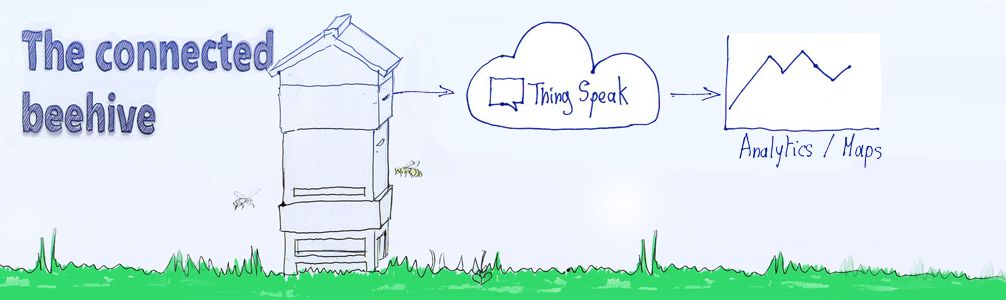
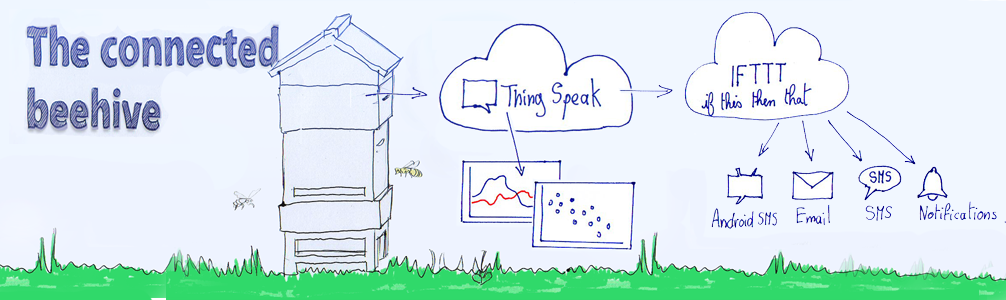
update web & readme.md

diff --git a/html/menu.php b/html/menu.php
@@ -31,9 +31,10 @@
 					Data visualization
 				  </a>
 				  <div class="dropdown-menu">
-					<a class="dropdown-item" href="/thingSpeakView.php?fieldP=1&fieldS=2">Poids/Température</a>
-					<a class="dropdown-item" href="/thingSpeakView.php?fieldP=3&fieldS=4">Pression/Humidité</a>
-					<a class="dropdown-item" href="/thingSpeakView.php?fieldP=5">Eclairement</a>
+					<a class="dropdown-item" href="/thingSpeakView.php?fieldP=1&fieldS=2">Weight/Temperature</a>
+					<a class="dropdown-item" href="/thingSpeakView.php?fieldP=3&fieldS=4">Pressure/humidity</a>
+					<a class="dropdown-item" href="/thingSpeakView.php?fieldP=5">Illuminance</a>
+					<a class="dropdown-item" href="/thingSpeakView.php?channel=556419&fieldP=3">Dew point</a>
 				  </div>
 			</li>
 			
@@ -43,9 +44,9 @@
 					 Data analysis
 				  </a>
 				  <div class="dropdown-menu">
-					<a class="dropdown-item" href="/dispersionPoidsTemperature.php">Nuage de points Poids/Température</a>
-					<a class="dropdown-item" href="/dispersionTempHumidite.php">Nuage de points Température/Humidité</a>
-					<a class="dropdown-item" href="/dewPoint.php">Dew point</a>
+					<a class="dropdown-item" href="/dispersionPoidsTemperature.php">Scatter plot Weight/Temperature</a>
+					<a class="dropdown-item" href="/dispersionTempHumidite.php">Scatter plot Temperature/Humidity</a>
+					<!--<a class="dropdown-item" href="/dewPoint.php">Dew point</a>-->
 				  </div>
 			</li>
 			
@@ -69,11 +70,12 @@
 						echo $_SESSION['login']; 
 					echo '</a>';
 					echo '<div class="dropdown-menu">';
-					echo '<a class="dropdown-item" href="/administration/ruche.php">Ruche</a>';
-					echo '<a class="dropdown-item" href="/administration/balance.php">Balance</a>';
-					echo '<a class="dropdown-item" href="/administration/baseDeDonnees.php">Bases de données</a>';
+					echo '<a class="dropdown-item" href="/administration/ruche.php">Beehive</a>';
+					echo '<a class="dropdown-item" href="/administration/balance.php">Scale</a>';
+					echo '<a class="dropdown-item" href="/administration/baseDeDonnees.php">Database</a>';
 					echo '<a class="dropdown-item" href="/administration/thingSpeakConf.php">Thing Speak</a>';
 					echo '<a class="dropdown-item" href="https://ifttt.com/my_applets">IFTTT</a>';
+					echo '<a class="dropdown-item" href="/administration/infoSystem.php">System info</a>';
 					echo '<a class="dropdown-item" href="/administration/signout.php" id="nav-sign-in">Sign Out</a>';
 					echo '</div>';
 					echo '</li>';

diff --git a/html/activity.php b/html/activity.php
@@ -25,24 +25,36 @@
 	<?php require_once 'menu.php'; ?>
 	<div class="container" style="padding-top: 65px;">
 		<div class="row">
-			<div class="col-md-9 col-sm-12 col-xs-12">
-				<div class="popin">
-				<?php
-					$file = '/home/pi/Ruche/activity.log';
-				 
-					$file_contents = array_reverse(file($file));
-					$nb = 1;
-					echo "<p>";
-					foreach($file_contents as $line){
-				 
-					  echo $line . "<br />";
-					  $nb++;
-					  if ($nb > 48) {
-						 break; 
-					  }
-					}
-					echo "</p>";
-				?>
+			<div class="col-md-12 col-sm-12 col-xs-12">
+				<div class="popin table-responsive">
+				<table class="table table-striped">
+					<thead>
+					  <tr>
+						<th>N°</th>
+						<th>Date Time</th>
+						<th>Process</th>
+					  </tr>
+					</thead>
+					<tbody>
+						<?php
+							$file = '/home/pi/Ruche/activity.log';
+						 
+							$file_contents = array_reverse(file($file));
+							$nb = 1;
+							
+							foreach($file_contents as $line_num => $line){
+								if (preg_match("/\b50[0-5]\b/", $line)) echo '<tr class="table-danger">'; else echo '<tr>';						
+								echo "<td>" .$line_num . "</td><td> " . substr($line, 0, 20) . "</td><td>" . substr($line, 20) . "</td>";
+								$nb++;
+								if ($nb > 48) {
+									break; 
+								}
+								echo "</tr>\n";
+							}
+							
+						?>
+					</tbody>
+				</table>	
 				</div>
 			</div>	
 

diff --git a/html/thingSpeakView.php b/html/thingSpeakView.php
@@ -27,9 +27,9 @@
     
 	// put your ThingSpeak Channel#, Channel Name, and API keys here.
     var channelKeys =[];
-    channelKeys.push({channelNumber:<?php echo $ini['thingSpeak']['channel']; ?>, 
+    channelKeys.push({channelNumber:<?php if (isset($_GET['channel'])) { echo $_GET['channel']; } else {echo $ini['thingSpeak']['channel'];} ?>, 
 	                  name:'Ruche',
-					  key:'<?php echo $ini['thingSpeak']['key']; ?>',
+					  key:'<?php if (isset($_GET['key'])) { echo $_GET['key']; } else { echo $ini['thingSpeak']['key']; }; ?>',
                       fieldList:[<?php if (isset($_GET['fieldP'])) { echo "{field:".$_GET['fieldP'].",axis:'P'}"; } else { echo "{field:1,axis:'P'}"; }; 
 								       if (isset($_GET['fieldS'])) { echo ",{field:".$_GET['fieldS'].",axis:'O'}"; };  
 							    ?>]});
@@ -243,17 +243,17 @@ $(document).ready(function()
 				minute: '%H:%M'
 			},
 			title: {
-				text: 'poids'
+				text: ''
 			}
 		},
 		yAxis: [{
             title: {
-                text: 'Poids'
+                text: 'Main Axis'
             },
             id: 'P'
 		}, {
             title: {
-                text: 'Other'
+                text: 'Other Axis'
             },
             opposite: true,
             id: 'O'

diff --git a/README.md b/README.md
@@ -1,1 +1,81 @@
-# Ruche
+# The connected Beehive
+D’une installation facile et rapide, le système se positionne sous n’importe quelle ruche et délivre en temps réel un suivi précis des grandeurs mesurées, via des vues graphiques sur thing Speak ou sur votre site internet.
+
+En cas de besoin d’intervention, des alertes vous seront transmises par mail, sms, ou notification sur votre smartphone. Ce service est assurée par IFTTT (if this then that).
+
+## Câblage
+Réaliser le câblage suivant sur la carte **snir-hat**
+![schema cablage HX711](/html/images/snirHat.png)
+## Prérequis Installation
+
+Les paquets suivants doivent être installés
+```bash
+ $ sudo apt install apache2
+ $ sudo apt install mysql
+ $ sudo apt install php
+ $ sudo apt install phpmyadmin
+ $ sudo apt install libcurl4-openssl-dev
+ $ sudo apt install libmysqlcppconn-dev
+```
+Configuration de Apache
+```bash
+$ sudo a2enmod cgi
+$ sudo usermod -G video www-data
+$ sudo usermod -a -G i2c www-data
+$ sudo service apache2 restart
+```
+Configuration de mysql :
+
+ - création d'une base **data**
+ - création d'un utilisateur **ruche** avec mdp **toto**
+
+
+```bash
+$ mysql -u root -p
+MariaDB [(none)]> create database data;
+MariaDB [(none)]> GRANT ALL PRIVILEGES ON data.* TO ruche@'%'
+IDENTIFIED BY 'toto';
+MariaDB [(none)]> flush privileges;
+MariaDB [(none)]> exit
+```
+ avec phpmyadmin importer le fichier **ruche.sql**
+## Installation 
+```bash
+$ git clone https://github.com/PhilippeSimier/Ruche.git
+$ make all
+$ make install
+$ make clean
+```
+Configuration **crontab**
+ajouter les tâches planifiées suivantes :
+
+ - Exécution de bddLog toutes les 30 minutes;
+ - Exécution de thingSpeak toutes les 30 minutes;
+ - Exécution de synchronisation toute les 4 heures lorsque minute = 5. 
+
+```bash
+*/30 * * * * /home/pi/Ruche/Capteurs/bddLog >> /home/pi/Ruche/activity.log 2>&1
+*/30 * * * * /home/pi/Ruche/Capteurs/thingSpeak >> /home/pi/Ruche/activity.log 2>&1
+5 */4 * * * /home/pi/Ruche/Capteurs/synchronisation >> /home/pi/Ruche/activity.log 2>&1
+
+```
+
+
+
+## Changelog
+
+ **04/08/2018 :** Ajout du README . 
+ 
+> **Notes :**
+
+
+> - Licence : **licence publique générale** ![enter image description here](https://img.shields.io/badge/licence-GPL-green.svg)
+> - Auteur **Philippe SIMIER Lycée Touchard Le Mans**
+>  ![enter image description here](https://img.shields.io/badge/built-passing-green.svg)
+<!-- TOOLBOX 
+
+Génération des badges : https://shields.io/
+Génération de ce fichier : https://stackedit.io/editor#
+
+
+
